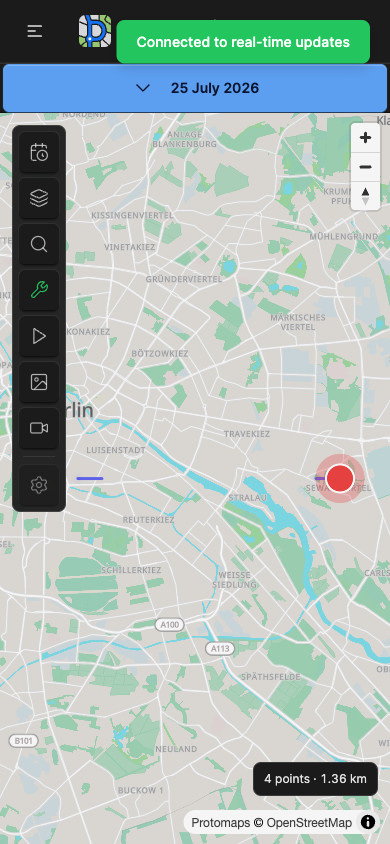
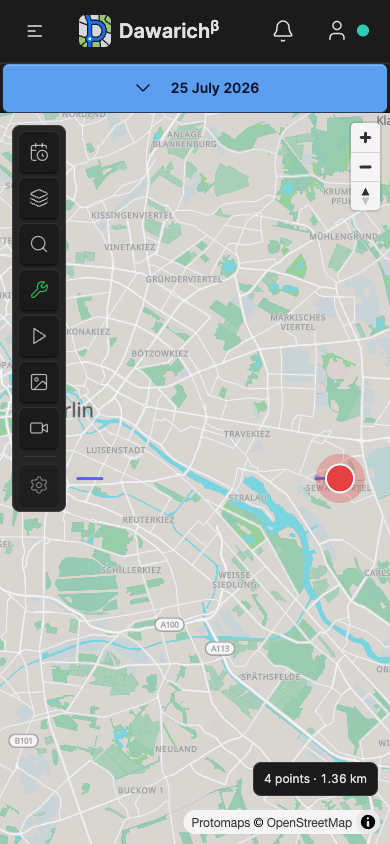
Refresh map totals after background track updates (#3257)

Changed region(s): [[0.2769, 0.0, 0.9538, 0.0924]]

diff --git a/app/javascript/maps_maplibre/services/api_client.js b/app/javascript/maps_maplibre/services/api_client.js
@@ -94,6 +94,7 @@ export class ApiClient {
 
   async fetchRangeStatistics({ start_at, end_at, signal }) {
     const params = new URLSearchParams({ start_at, end_at })
+    maskPrivacyZones(params)
     if (this.importId) params.set("import_id", this.importId)
     const response = await fetch(`${this.baseURL}/maps/statistics?${params}`, {
       headers: this.getHeaders(),

diff --git a/app/javascript/controllers/maps/maplibre_realtime_controller.js b/app/javascript/controllers/maps/maplibre_realtime_controller.js
@@ -162,6 +162,8 @@ export default class extends Controller {
     const mapsController = this.mapsV2Controller
     if (!mapsController) return
 
+    mapsController.rangeStatistics?.refresh()
+
     mapsController.layerManager?.getLayer("tracks-mvt")?.refresh()
     mapsController.layerManager?.getLayer("map-editor")?.reapplyTileFilters()
   }

diff --git a/spec/requests/api/v1/maps/statistics_spec.rb b/spec/requests/api/v1/maps/statistics_spec.rb
@@ -117,9 +117,39 @@ RSpec.describe 'Map range statistics', type: :request do
     expect(data).to eq('points' => 1, 'distance_meters' => 0.0)
   end
 
+  it 'distinguishes repeated DST wall times when explicit offsets differ' do
+    user.update!(settings: user.settings.merge('timezone' => 'Europe/Berlin'))
+    create(:point, user:, timestamp: Time.iso8601('2026-10-25T02:30:00+02:00').to_i)
+    create(:point, user:, timestamp: Time.iso8601('2026-10-25T02:30:00+01:00').to_i)
+    data = request_statistics(start_at: '2026-10-25T02:30:00+02:00', end_at: '2026-10-25T02:30:00+02:00')
+    expect(data).to eq('points' => 1, 'distance_meters' => 0.0)
+    expect(request_statistics(start_at: '2026-10-25T02:30:00+02:00',
+                              end_at: '2026-10-25T02:30:00+01:00')['points']).to eq(2)
+  end
+
+  it 'invalidates cached totals when a privacy zone is added or moved' do
+    allow(Rails).to receive(:cache).and_return(ActiveSupport::Cache::MemoryStore.new)
+    point(0)
+    point(60, longitude: 0.01)
+    expect(request_statistics['points']).to eq(2)
+    tag = create(:tag, :privacy_zone, user:, privacy_radius_meters: 100)
+    place = create(:place, user:, latitude: 0, longitude: 0.01, lonlat: 'POINT(0.01 0)')
+    create(:tagging, tag:, taggable: place)
+    expect(request_statistics).to eq('points' => 1, 'distance_meters' => 0.0)
+    place.update!(latitude: 0, longitude: 10)
+    expect(request_statistics['points']).to eq(2)
+  end
+
   it 'rejects missing, invalid and reversed ranges' do
     [nil, 'nonsense', end_at + 1].each do |invalid|
       request_statistics(start_at: invalid)
+      expect(response).to have_http_status(:bad_request)
+    end
+  end
+
+  it 'rejects array and object bounds as invalid ranges' do
+    [[:start_at, [start_at]], [:end_at, { value: end_at }]].each do |key, value|
+      request_statistics(key => value)
       expect(response).to have_http_status(:bad_request)
     end
   end

diff --git a/spec/requests/api/v1/privacy_zone_masking_spec.rb b/spec/requests/api/v1/privacy_zone_masking_spec.rb
@@ -64,6 +64,19 @@ RSpec.describe 'Privacy zone masking on map read endpoints', type: :request do
     end
   end
 
+  describe 'map range statistics' do
+    it 'excludes private-zone samples regardless of whether the flag is supplied' do
+      create(:point, user:, lonlat: "POINT(#{zone_lon} #{zone_lat})", timestamp: 2.hours.ago.to_i)
+      create(:point, user:, lonlat: 'POINT(13.700 52.600)', timestamp: 1.hour.ago.to_i)
+
+      [time_range, masked(time_range)].each do |params|
+        get '/api/v1/maps/statistics', params: params, headers: headers
+        expect(response).to have_http_status(:ok)
+        expect(json).to eq('points' => 1, 'distance_meters' => 0.0)
+      end
+    end
+  end
+
   describe 'track_points' do
     let(:track) { create(:track, user: user, start_at: 3.hours.ago, end_at: 30.minutes.ago) }
 

diff --git a/app/controllers/api/v1/maps/statistics_controller.rb b/app/controllers/api/v1/maps/statistics_controller.rb
@@ -17,7 +17,7 @@ class Api::V1::Maps::StatisticsController < ApiController
   private
 
   def parse_timestamp(value)
-    return if value.blank?
+    return unless value.is_a?(String) && value.present?
 
     timestamp = value.match?(/\A\d+\z/) ? value.to_i : Time.zone.parse(value)&.to_i
     timestamp if timestamp&.between?(0, Time.utc(2100).to_i)

diff --git a/docs/map-range-statistics.md b/docs/map-range-statistics.md
@@ -1,6 +1,6 @@
 # Map period statistics
 
-Issue [#3257](https://github.com/Freika/dawarich/issues/3257). Implemented locally against `dev` at `13ec7af9e`, 2026-10-28; not published or deployed.
+Issue [#3257](https://github.com/Freika/dawarich/issues/3257). Implementation based on `dev` at `13ec7af9e`, 2026-10-28, on branch `codex/issue-3257-map-statistics`. Publication and independent review status are recorded in the linked AFFiNE counterpart.
 
 The MapLibre map keeps a compact count and GPS distance at the bottom right, above attribution. It survives dismissal of the loading badge and works with no Trip or generated Track. Dates, import scope, point invalidation and saved route settings refresh it. Changing km/mi reformats the original meters without a second aggregate query. Errors replace previous totals with an unavailable state; an empty period displays zero.
 
@@ -20,22 +20,26 @@ Client conversion follows `DISTANCE_UNITS` (`1000` meters/km, `1609.34` meters/m
 
 The aggregate runs as one narrow SQL query with a five-second statement timeout, returning 503 on timeout. It reads no raw payloads and materializes no Point collection in Ruby or JavaScript. Successful aggregates cache for five minutes, keyed by account, exact range, import, point/track monthly revisions, plan window, time-gap setting and privacy fingerprint. HTTP responses use `no-store`; authorization always runs before aggregation. A late source mutation changes the revision rather than leaving a stale aggregate. Very large uncached periods can hit the timeout; choose a shorter period to retry.
 
-`RangeStatistics` aborts a superseded fetch and checks a generation counter before updating the DOM. Disconnect cancels pending work. Point invalidations coalesce for 300 ms and use the current selected range. Presentation is independent from tile completion, the loading counter and map-data failure. The status uses polite/atomic live announcements and an `aria-busy` state. The mobile Settings panel covers the map; closing it reveals the persistent totals again.
+`RangeStatistics` aborts a superseded fetch and checks a generation counter before updating the DOM. Disconnect cancels pending work. Point invalidations and track lifecycle events coalesce for 300 ms and use the current selected range. Presentation is independent from tile completion, the loading counter and map-data failure. The status uses polite/atomic live announcements and an `aria-busy` state. The mobile Settings panel covers the map; closing it reveals the persistent totals again.
 
 ## Verification
 
-Separate local PostgreSQL/Redis containers, separate test/browser databases and localhost port 13257 were used with synthetic data only. No SSH, production data, push, PR, merge or deployment.
+Separate local PostgreSQL/Redis containers, separate test/browser databases and localhost port 13257 were used with synthetic data only. Implementation validation used no SSH or production data. Merge and deployment are outside scope.
 
-- 59 focused RSpec examples passed: range/API contract, adjacent boundaries, multiple routes, stored Track boundaries, trackers/anomalies, account timezone, empty/single-point ranges, import ownership, a real privacy zone, actual Cloud Lite window, source-mutation cache invalidation, invalid ranges, authentication and timeout. Existing point-tile tests are included. Swagger generation also passed 273 dry-run examples (not 273 executed endpoint checks).
-- Full `npm test`: 740 passed. New tests cover original-meter conversion, empty/error states, ignored delayed responses, disconnect and invalidation coalescing.
+- 79 focused RSpec examples passed: range/API contract, adjacent boundaries, multiple routes, stored Track boundaries, trackers/anomalies, account timezone, empty/single-point ranges, import ownership, a real privacy zone, actual Cloud Lite window, source-mutation cache invalidation, invalid ranges (including structured query parameters), authentication, DST repeated-hour offsets, privacy-zone mutation and timeout. Existing point-tile tests are included. Swagger generation also passed 273 dry-run examples (not 273 executed endpoint checks).
+- Full `npm test`: 741 passed. New tests cover original-meter conversion, empty/error states, ignored delayed responses, disconnect, invalidation coalescing and a track event updating displayed distance with live points disabled.
 - All seven locale dictionaries were checked with counts 0, 1 and 2 (21 variants), including the Rails Chinese fallback for singular counts.
-- RuboCop: all four new Ruby/spec files pass. Biome formatting and `git diff --check` pass.
+- RuboCop: all five affected Ruby/spec files pass. Biome formatting and `git diff --check` pass.
 - Visible Chrome: desktop 1440×900 and mobile 390×844; loader dismissal, two synthetic routes, km→mi→km, account-local partial-period form while the browser uses America/New_York, empty period, rapid SPA switches with one delayed real response and German copy all pass. No page errors. Browser screenshots below; additional screenshots/results are in `tmp/screenshots/3257/` in the review worktree.
 
 ![Desktop selected-period statistics](screenshots/map-range-statistics/desktop.png)
 
 ![Mobile selected-period statistics](screenshots/map-range-statistics/mobile.png)
 
-Full unfiltered RSpec, physical devices, production-volume query benchmarks and production/native-runtime acceptance were not run. API schema is versioned in `swagger/v1/swagger.yaml` and its executable rswag specification.
+Physical devices, production-volume query benchmarks and production/native-runtime acceptance were not run. An additional cross-process ActionCable browser probe did not establish a connection; the new track-event refresh is covered by the real-component JS regression, and that extra probe is not counted among the seven successful browser scenarios. Full-suite follow-up results are recorded in the linked review record. API schema is versioned in `swagger/v1/swagger.yaml` and its executable rswag specification.
 
 AFFiNE counterpart: [Dawarich — Map period statistics (#3257)](https://affine.dwri.xyz/workspace/c309ded7-e11e-4e72-ba6f-aec8a31a740b/QlMHWNjnS67Tq9_v1L-o9). Project overview: `EMGlXGqAqhVs7__YSQVHN`.
+
+## Independent review follow-up
+
+The first local E/Q/P review kept two findings: totals did not refresh when background track generation changed their boundaries, and structured timestamp parameters raised a server error. Both were reproduced with failing regression tests and fixed: track lifecycle events now use the coalesced refresh, and non-string bounds return 400. The client also sends the standard privacy flag, with an explicit case in the shared map-read privacy contract tests. Product review approved the selected scope and documented boundary rules.
